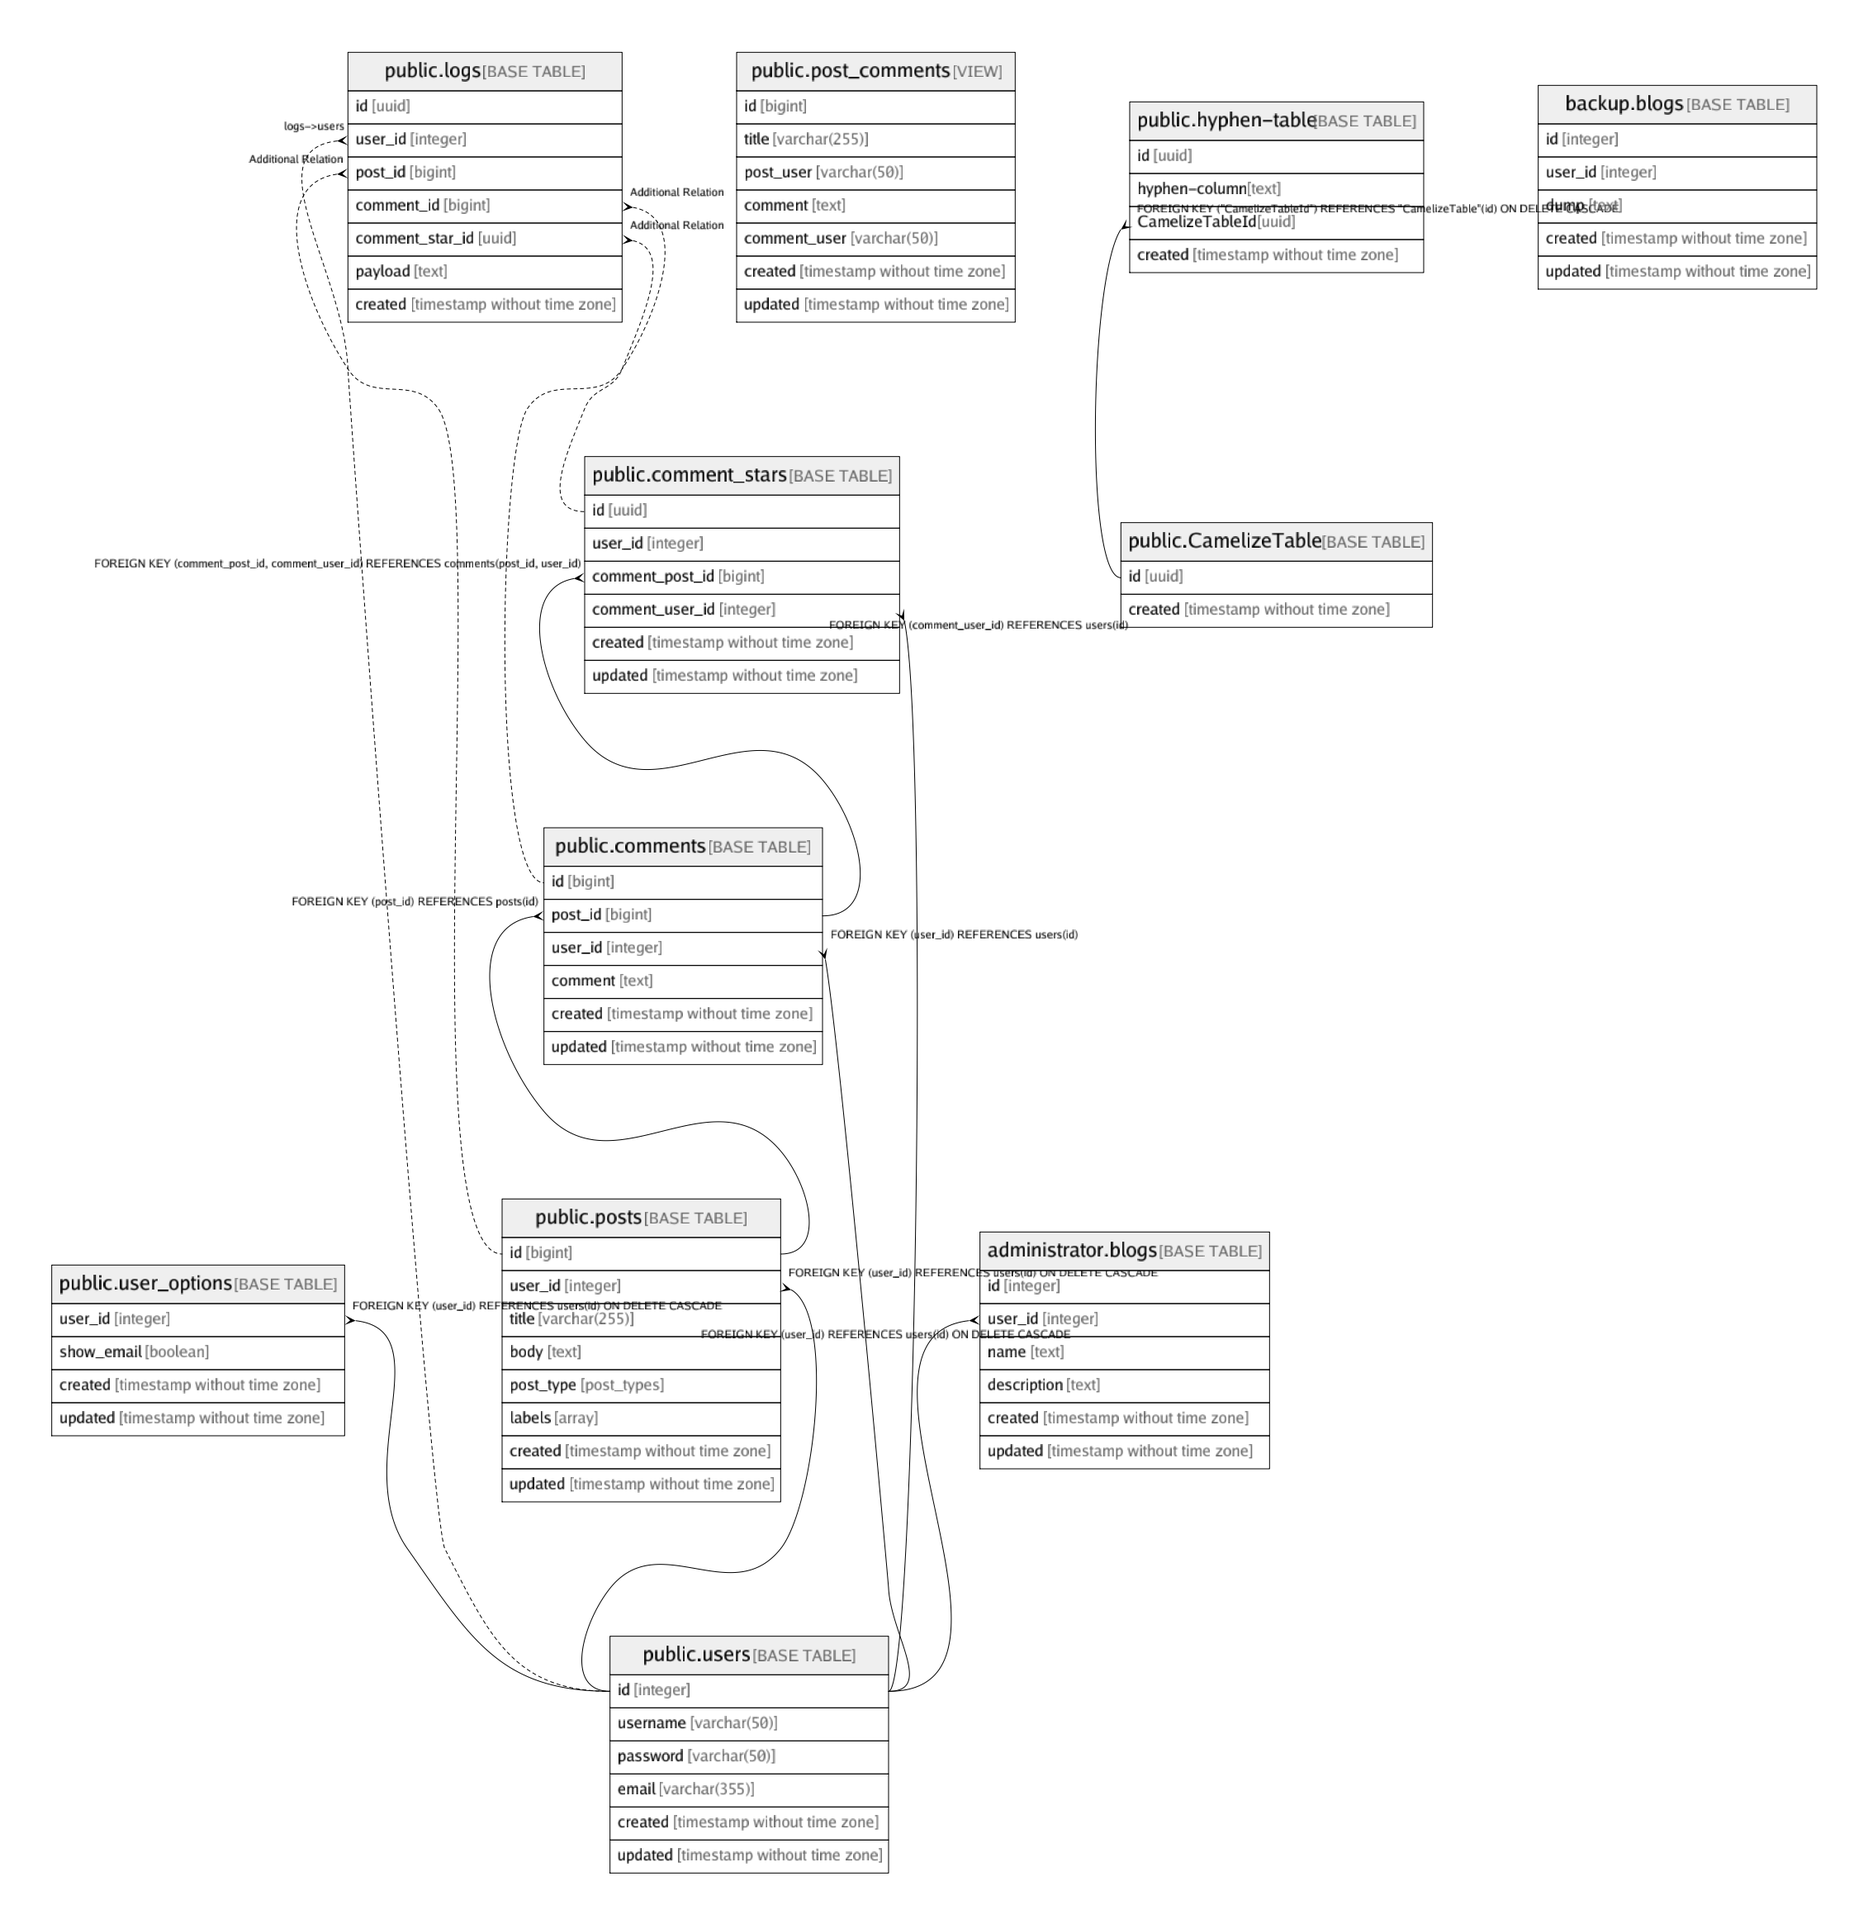
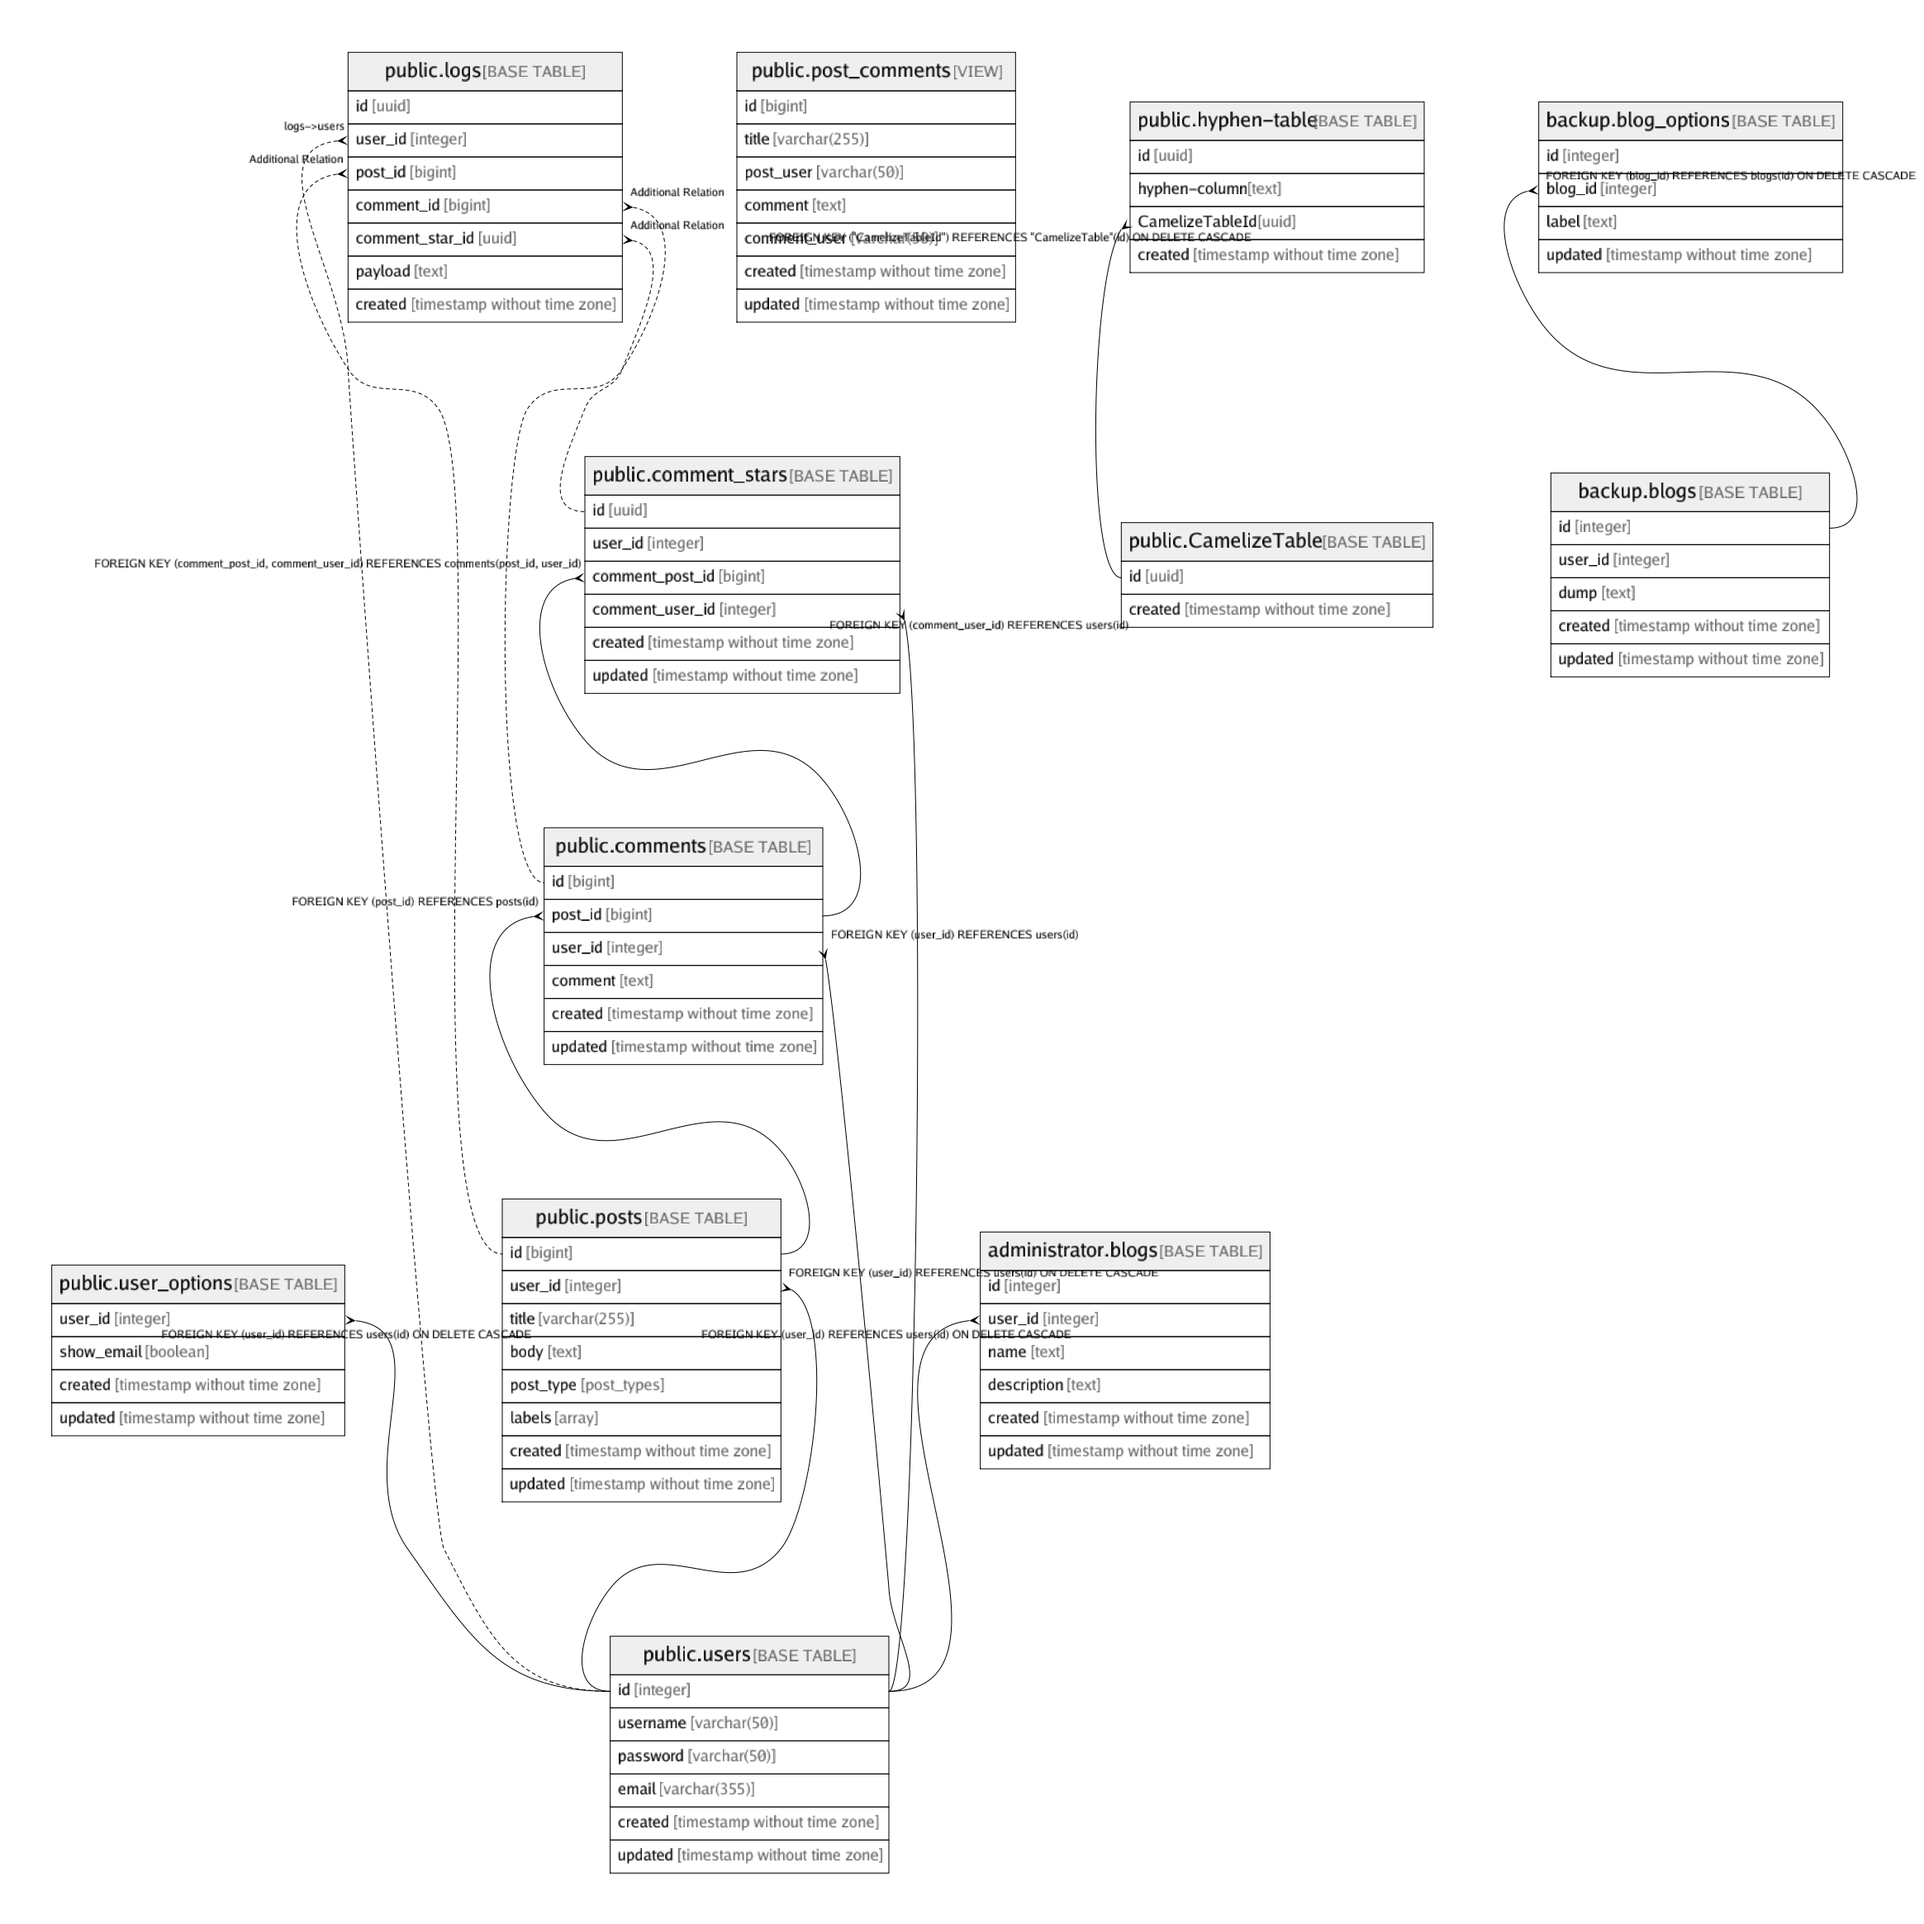
[PostgreSQL]Detect full table name using search_path and information_schema

diff --git a/drivers/postgres/postgres.go b/drivers/postgres/postgres.go
@@ -50,6 +50,23 @@ func (p *Postgres) Analyze(s *schema.Schema) error {
 	}
 	s.Driver.Meta.CurrentSchema = currentSchema
 
+	// search_path
+	var searchPaths string
+	pathRows, err := p.db.Query(`SHOW search_path`)
+	defer pathRows.Close()
+	if err != nil {
+		return errors.WithStack(err)
+	}
+	for pathRows.Next() {
+		err := pathRows.Scan(&searchPaths)
+		if err != nil {
+			return errors.WithStack(err)
+		}
+	}
+	s.Driver.Meta.SearchPaths = strings.Split(searchPaths, ", ")
+
+	fullTableNames := []string{}
+
 	// tables
 	tableRows, err := p.db.Query(`
 SELECT DISTINCT cls.oid AS oid, cls.relname AS table_name, tbl.table_type AS table_type, tbl.table_schema AS table_schema
@@ -81,6 +98,8 @@ ORDER BY oid`, s.Name)
 		}
 
 		name := fmt.Sprintf("%s.%s", tableSchema, tableName)
+
+		fullTableNames = append(fullTableNames, name)
 
 		table := &schema.Table{
 			Name: name,
@@ -331,9 +350,12 @@ ORDER BY ordinal_position
 			r.Columns = append(r.Columns, column)
 			column.ParentRelations = append(column.ParentRelations, r)
 		}
-		if !strings.Contains(strParentTable, ".") {
-			strParentTable = fmt.Sprintf("%s.%s", currentSchema, strParentTable)
+
+		dn, err := detectFullTableName(strParentTable, s.Driver.Meta.SearchPaths, fullTableNames)
+		if err != nil {
+			return err
 		}
+		strParentTable = dn
 		parentTable, err := s.FindTableByName(strParentTable)
 		if err != nil {
 			return err
@@ -451,6 +473,27 @@ AND c.relname = $1
 AND n.nspname = $2
 GROUP BY c.relname, n.nspname, i.relname, i.oid, x.indexrelid
 ORDER BY x.indexrelid`
+}
+
+func detectFullTableName(name string, searchPaths, fullTableNames []string) (string, error) {
+	if strings.Contains(name, ".") {
+		return name, nil
+	}
+	fns := []string{}
+	for _, n := range fullTableNames {
+		if strings.HasSuffix(n, name) {
+			for _, p := range searchPaths {
+				// TODO: Support $user
+				if n == fmt.Sprintf("%s.%s", p, name) {
+					fns = append(fns, n)
+				}
+			}
+		}
+	}
+	if len(fns) != 1 {
+		return "", errors.Errorf("can not detect table name: %s", name)
+	}
+	return fns[0], nil
 }
 
 func colkeyToInts(colkey string) []int {

diff --git a/datasource/datasource_test.go b/datasource/datasource_test.go
@@ -17,7 +17,7 @@ var tests = []struct {
 	relationCount int
 }{
 	{"my://root:mypass@localhost:33306/testdb", "testdb", 9, 6},
-	{"pg://postgres:pgpass@localhost:55432/testdb?sslmode=disable", "testdb", 11, 8},
+	{"pg://postgres:pgpass@localhost:55432/testdb?sslmode=disable", "testdb", 12, 9},
 	{"json://../testdata/testdb.json", "testdb", 11, 12},
 	{"ms://SA:MSSQLServer-Passw0rd@localhost:11433/testdb", "testdb", 9, 6},
 }

diff --git a/schema/schema.go b/schema/schema.go
@@ -74,6 +74,7 @@ type Relation struct {
 
 type DriverMeta struct {
 	CurrentSchema string     `json:"current_schema,omitempty" yaml:"currentSchema,omitempty"`
+	SearchPaths   []string   `json:"search_paths,omitempty" yaml:"searchPaths,omitempty"`
 	Dict          *dict.Dict `json:"dict,omitempty"`
 }
 

diff --git a/sample/adjust/backup.blogs.md b/sample/adjust/backup.blogs.md
@@ -4,13 +4,13 @@
 
 ## Columns
 
-| Name    | Type                        | Default                           | Nullable | Children | Parents | Comment |
-| ------- | --------------------------- | --------------------------------- | -------- | -------- | ------- | ------- |
-| id      | integer                     | nextval('blogs_id_seq'::regclass) | false    |          |         |         |
-| user_id | integer                     |                                   | false    |          |         |         |
-| dump    | text                        |                                   | false    |          |         |         |
-| created | timestamp without time zone |                                   | false    |          |         |         |
-| updated | timestamp without time zone |                                   | true     |          |         |         |
+| Name    | Type                        | Default                           | Nullable | Children                                      | Parents | Comment |
+| ------- | --------------------------- | --------------------------------- | -------- | --------------------------------------------- | ------- | ------- |
+| id      | integer                     | nextval('blogs_id_seq'::regclass) | false    | [backup.blog_options](backup.blog_options.md) |         |         |
+| user_id | integer                     |                                   | false    |                                               |         |         |
+| dump    | text                        |                                   | false    |                                               |         |         |
+| created | timestamp without time zone |                                   | false    |                                               |         |         |
+| updated | timestamp without time zone |                                   | true     |                                               |         |         |
 
 ## Constraints
 

diff --git a/sample/adjust/backup.blog_options.md b/sample/adjust/backup.blog_options.md
@@ -1,0 +1,33 @@
+# backup.blog_options
+
+## Description
+
+## Columns
+
+| Name    | Type                        | Default                                  | Nullable | Children | Parents                         | Comment |
+| ------- | --------------------------- | ---------------------------------------- | -------- | -------- | ------------------------------- | ------- |
+| id      | integer                     | nextval('blog_options_id_seq'::regclass) | false    |          |                                 |         |
+| blog_id | integer                     |                                          | false    |          | [backup.blogs](backup.blogs.md) |         |
+| label   | text                        |                                          | true     |          |                                 |         |
+| updated | timestamp without time zone |                                          | true     |          |                                 |         |
+
+## Constraints
+
+| Name                    | Type        | Definition                                                   |
+| ----------------------- | ----------- | ------------------------------------------------------------ |
+| blog_options_blog_id_fk | FOREIGN KEY | FOREIGN KEY (blog_id) REFERENCES blogs(id) ON DELETE CASCADE |
+| blog_options_pkey       | PRIMARY KEY | PRIMARY KEY (id)                                             |
+
+## Indexes
+
+| Name              | Definition                                                                    |
+| ----------------- | ----------------------------------------------------------------------------- |
+| blog_options_pkey | CREATE UNIQUE INDEX blog_options_pkey ON backup.blog_options USING btree (id) |
+
+## Relations
+
+![er](backup.blog_options.png)
+
+---
+
+> Generated by [tbls](https://github.com/k1LoW/tbls)

diff --git a/sample/postgres/backup.blog_options.md b/sample/postgres/backup.blog_options.md
@@ -1,0 +1,33 @@
+# backup.blog_options
+
+## Description
+
+## Columns
+
+| Name | Type | Default | Nullable | Children | Parents | Comment |
+| ---- | ---- | ------- | -------- | -------- | ------- | ------- |
+| id | integer | nextval('blog_options_id_seq'::regclass) | false |  |  |  |
+| blog_id | integer |  | false |  | [backup.blogs](backup.blogs.md) |  |
+| label | text |  | true |  |  |  |
+| updated | timestamp without time zone |  | true |  |  |  |
+
+## Constraints
+
+| Name | Type | Definition |
+| ---- | ---- | ---------- |
+| blog_options_blog_id_fk | FOREIGN KEY | FOREIGN KEY (blog_id) REFERENCES blogs(id) ON DELETE CASCADE |
+| blog_options_pkey | PRIMARY KEY | PRIMARY KEY (id) |
+
+## Indexes
+
+| Name | Definition |
+| ---- | ---------- |
+| blog_options_pkey | CREATE UNIQUE INDEX blog_options_pkey ON backup.blog_options USING btree (id) |
+
+## Relations
+
+![er](backup.blog_options.png)
+
+---
+
+> Generated by [tbls](https://github.com/k1LoW/tbls)

diff --git a/sample/adjust/README.md b/sample/adjust/README.md
@@ -15,6 +15,7 @@
 | [public.hyphen-table](public.hyphen-table.md)   | 4       |                                            | BASE TABLE |
 | [administrator.blogs](administrator.blogs.md)   | 6       |                                            | BASE TABLE |
 | [backup.blogs](backup.blogs.md)                 | 5       |                                            | BASE TABLE |
+| [backup.blog_options](backup.blog_options.md)   | 4       |                                            | BASE TABLE |
 
 ## Relations
 

diff --git a/sample/postgres/backup.blogs.md b/sample/postgres/backup.blogs.md
@@ -6,7 +6,7 @@
 
 | Name | Type | Default | Nullable | Children | Parents | Comment |
 | ---- | ---- | ------- | -------- | -------- | ------- | ------- |
-| id | integer | nextval('blogs_id_seq'::regclass) | false |  |  |  |
+| id | integer | nextval('blogs_id_seq'::regclass) | false | [backup.blog_options](backup.blog_options.md) |  |  |
 | user_id | integer |  | false |  |  |  |
 | dump | text |  | false |  |  |  |
 | created | timestamp without time zone |  | false |  |  |  |

diff --git a/sample/postgres/README.md b/sample/postgres/README.md
@@ -15,6 +15,7 @@
 | [public.hyphen-table](public.hyphen-table.md) | 4 |  | BASE TABLE |
 | [administrator.blogs](administrator.blogs.md) | 6 |  | BASE TABLE |
 | [backup.blogs](backup.blogs.md) | 5 |  | BASE TABLE |
+| [backup.blog_options](backup.blog_options.md) | 4 |  | BASE TABLE |
 
 ## Relations
 
